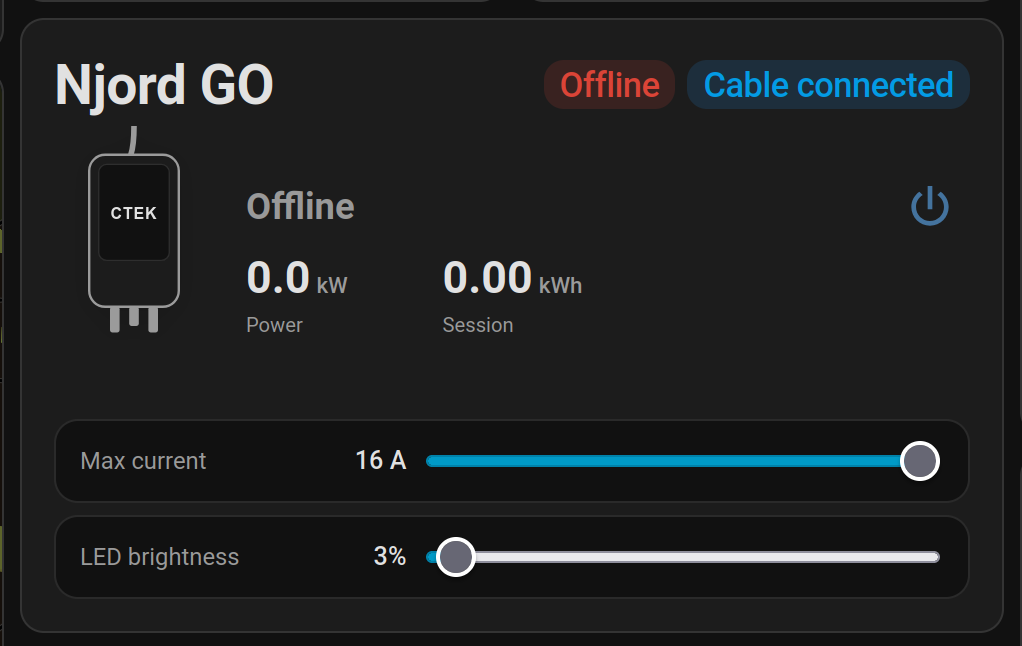
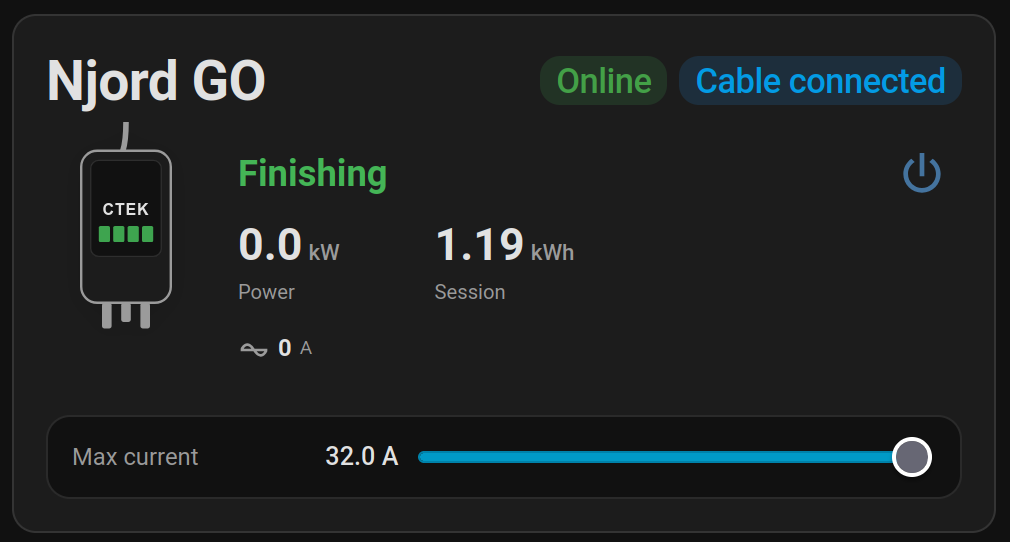
Update README screenshot to an OCPP device

diff --git a/README.md b/README.md
@@ -4,7 +4,7 @@ A Home Assistant Lovelace card for the CTEK Njord GO EV charger. It shows the co
 
 ![CTEK Njord GO card](images/card.png)
 
-_The screenshot shows a charger in the Offline state with the CTEK cloud integration._
+_The screenshot shows a charger using the OCPP integration after a finished session._
 
 ## Supported integrations
 
